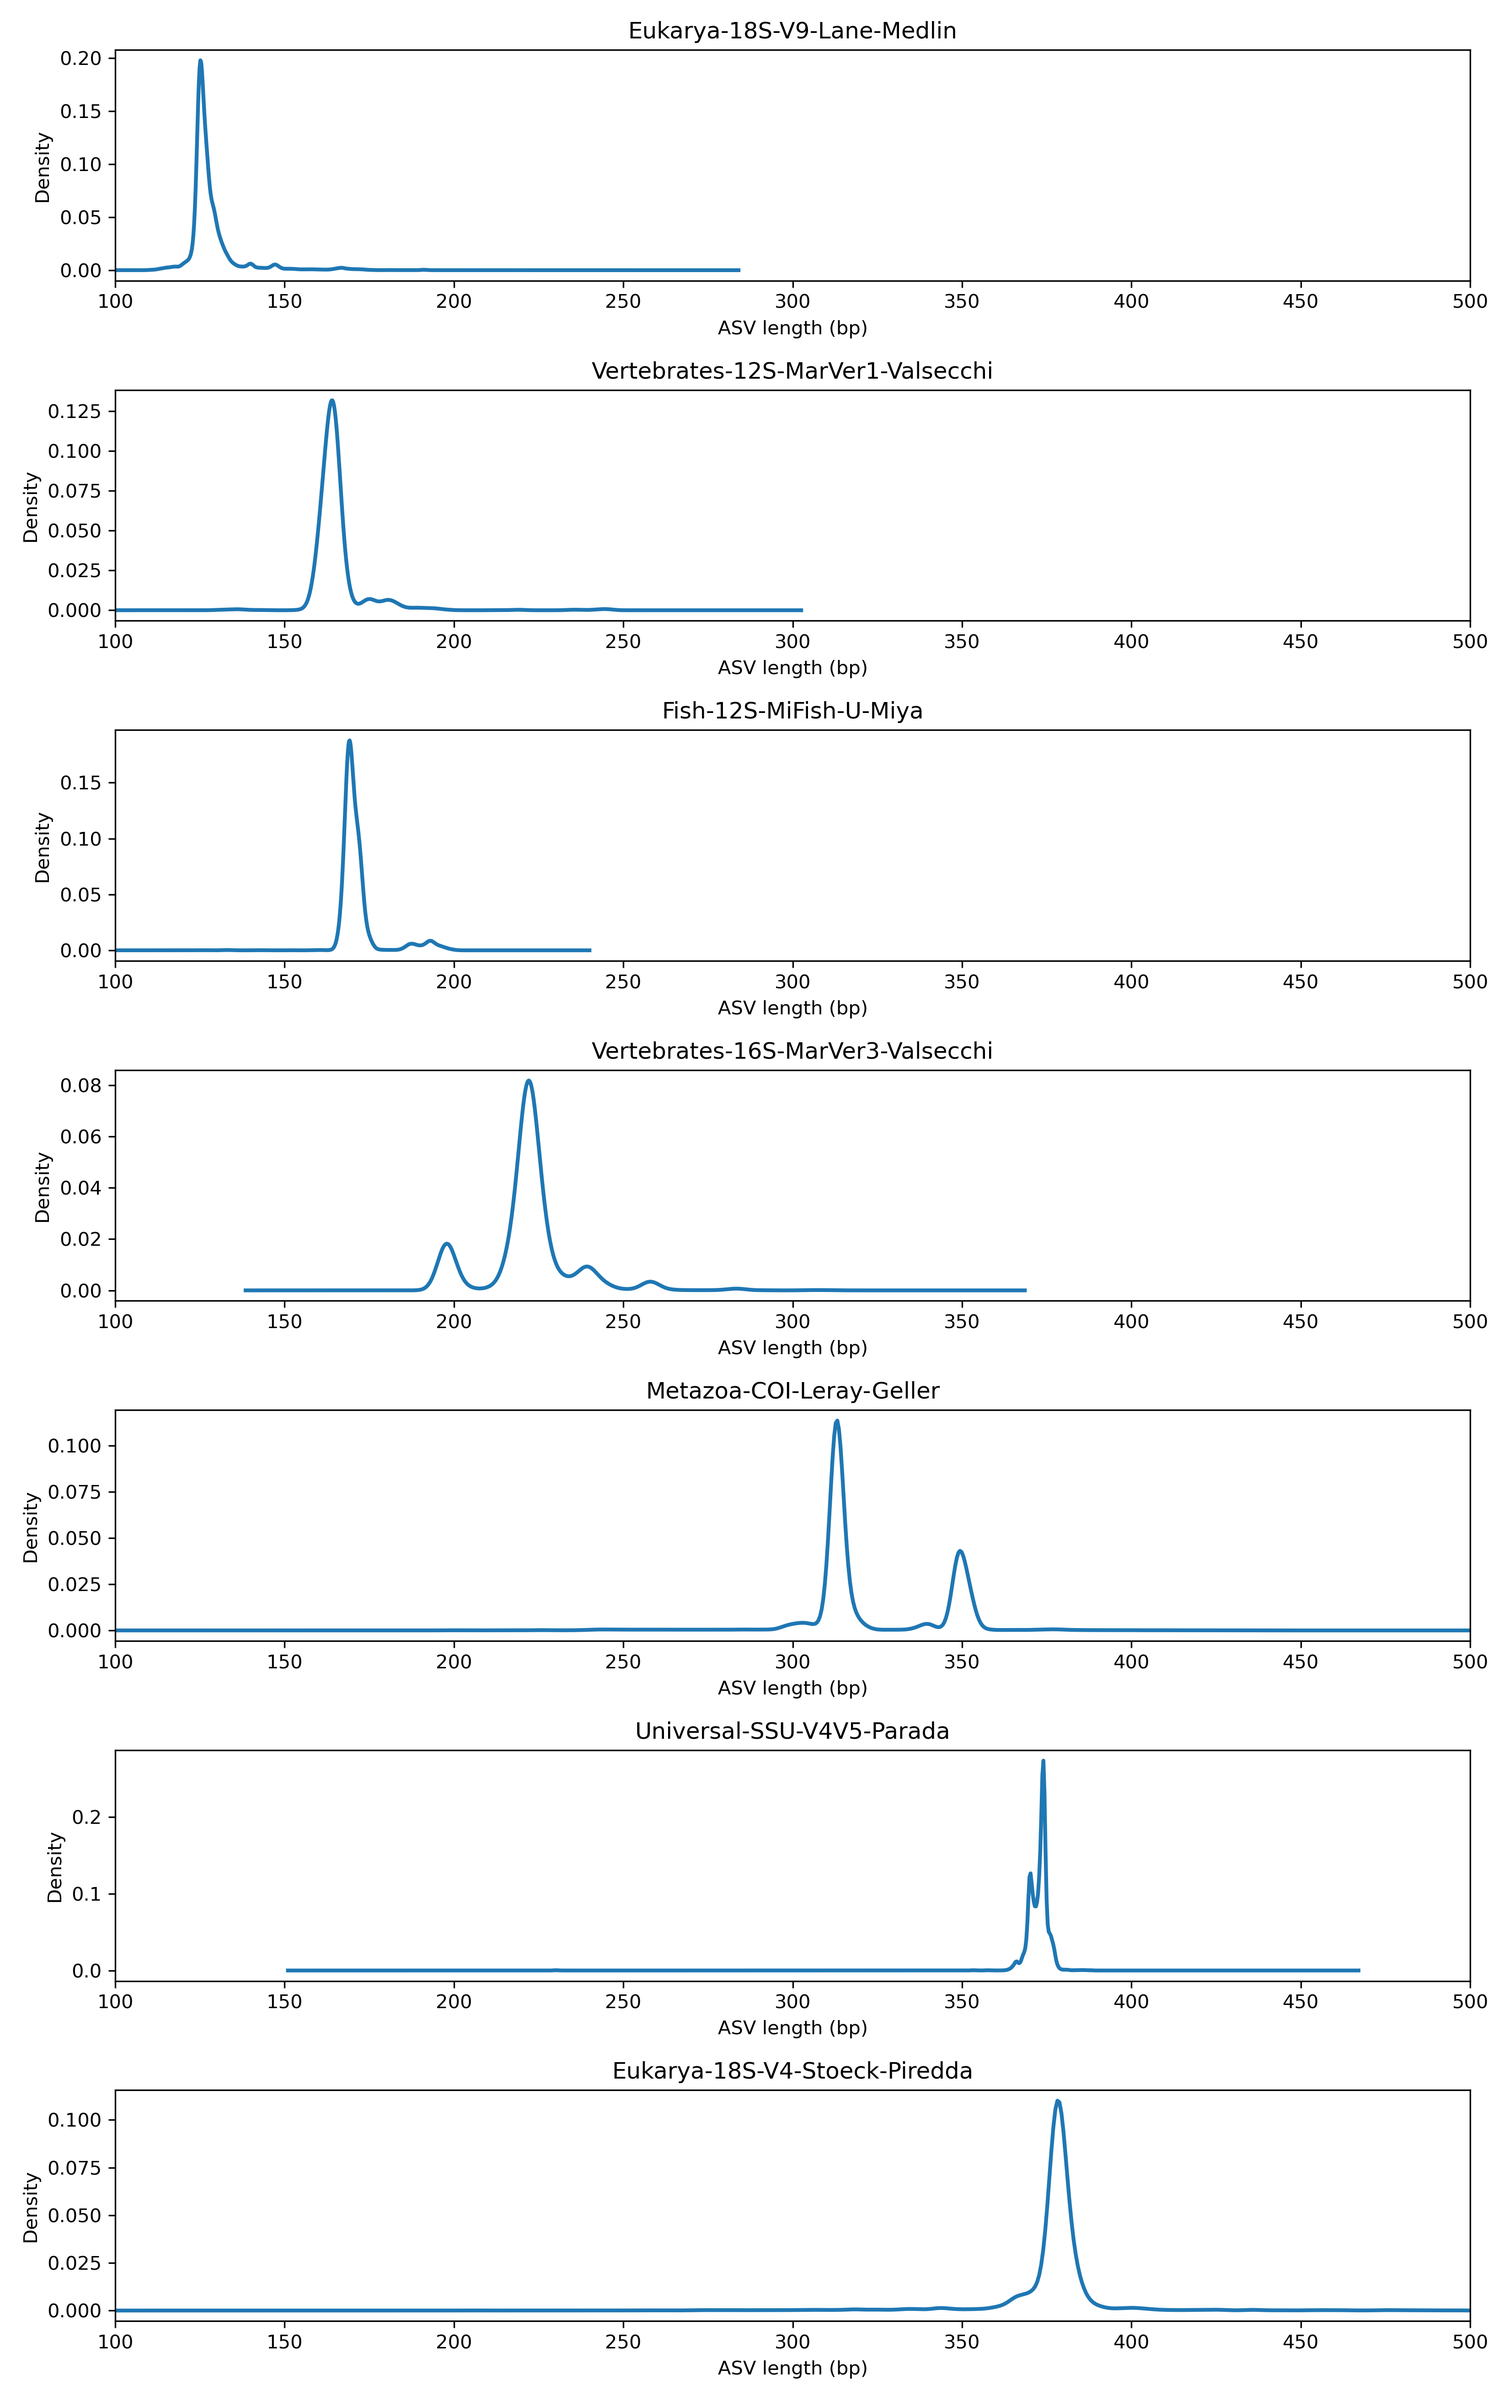
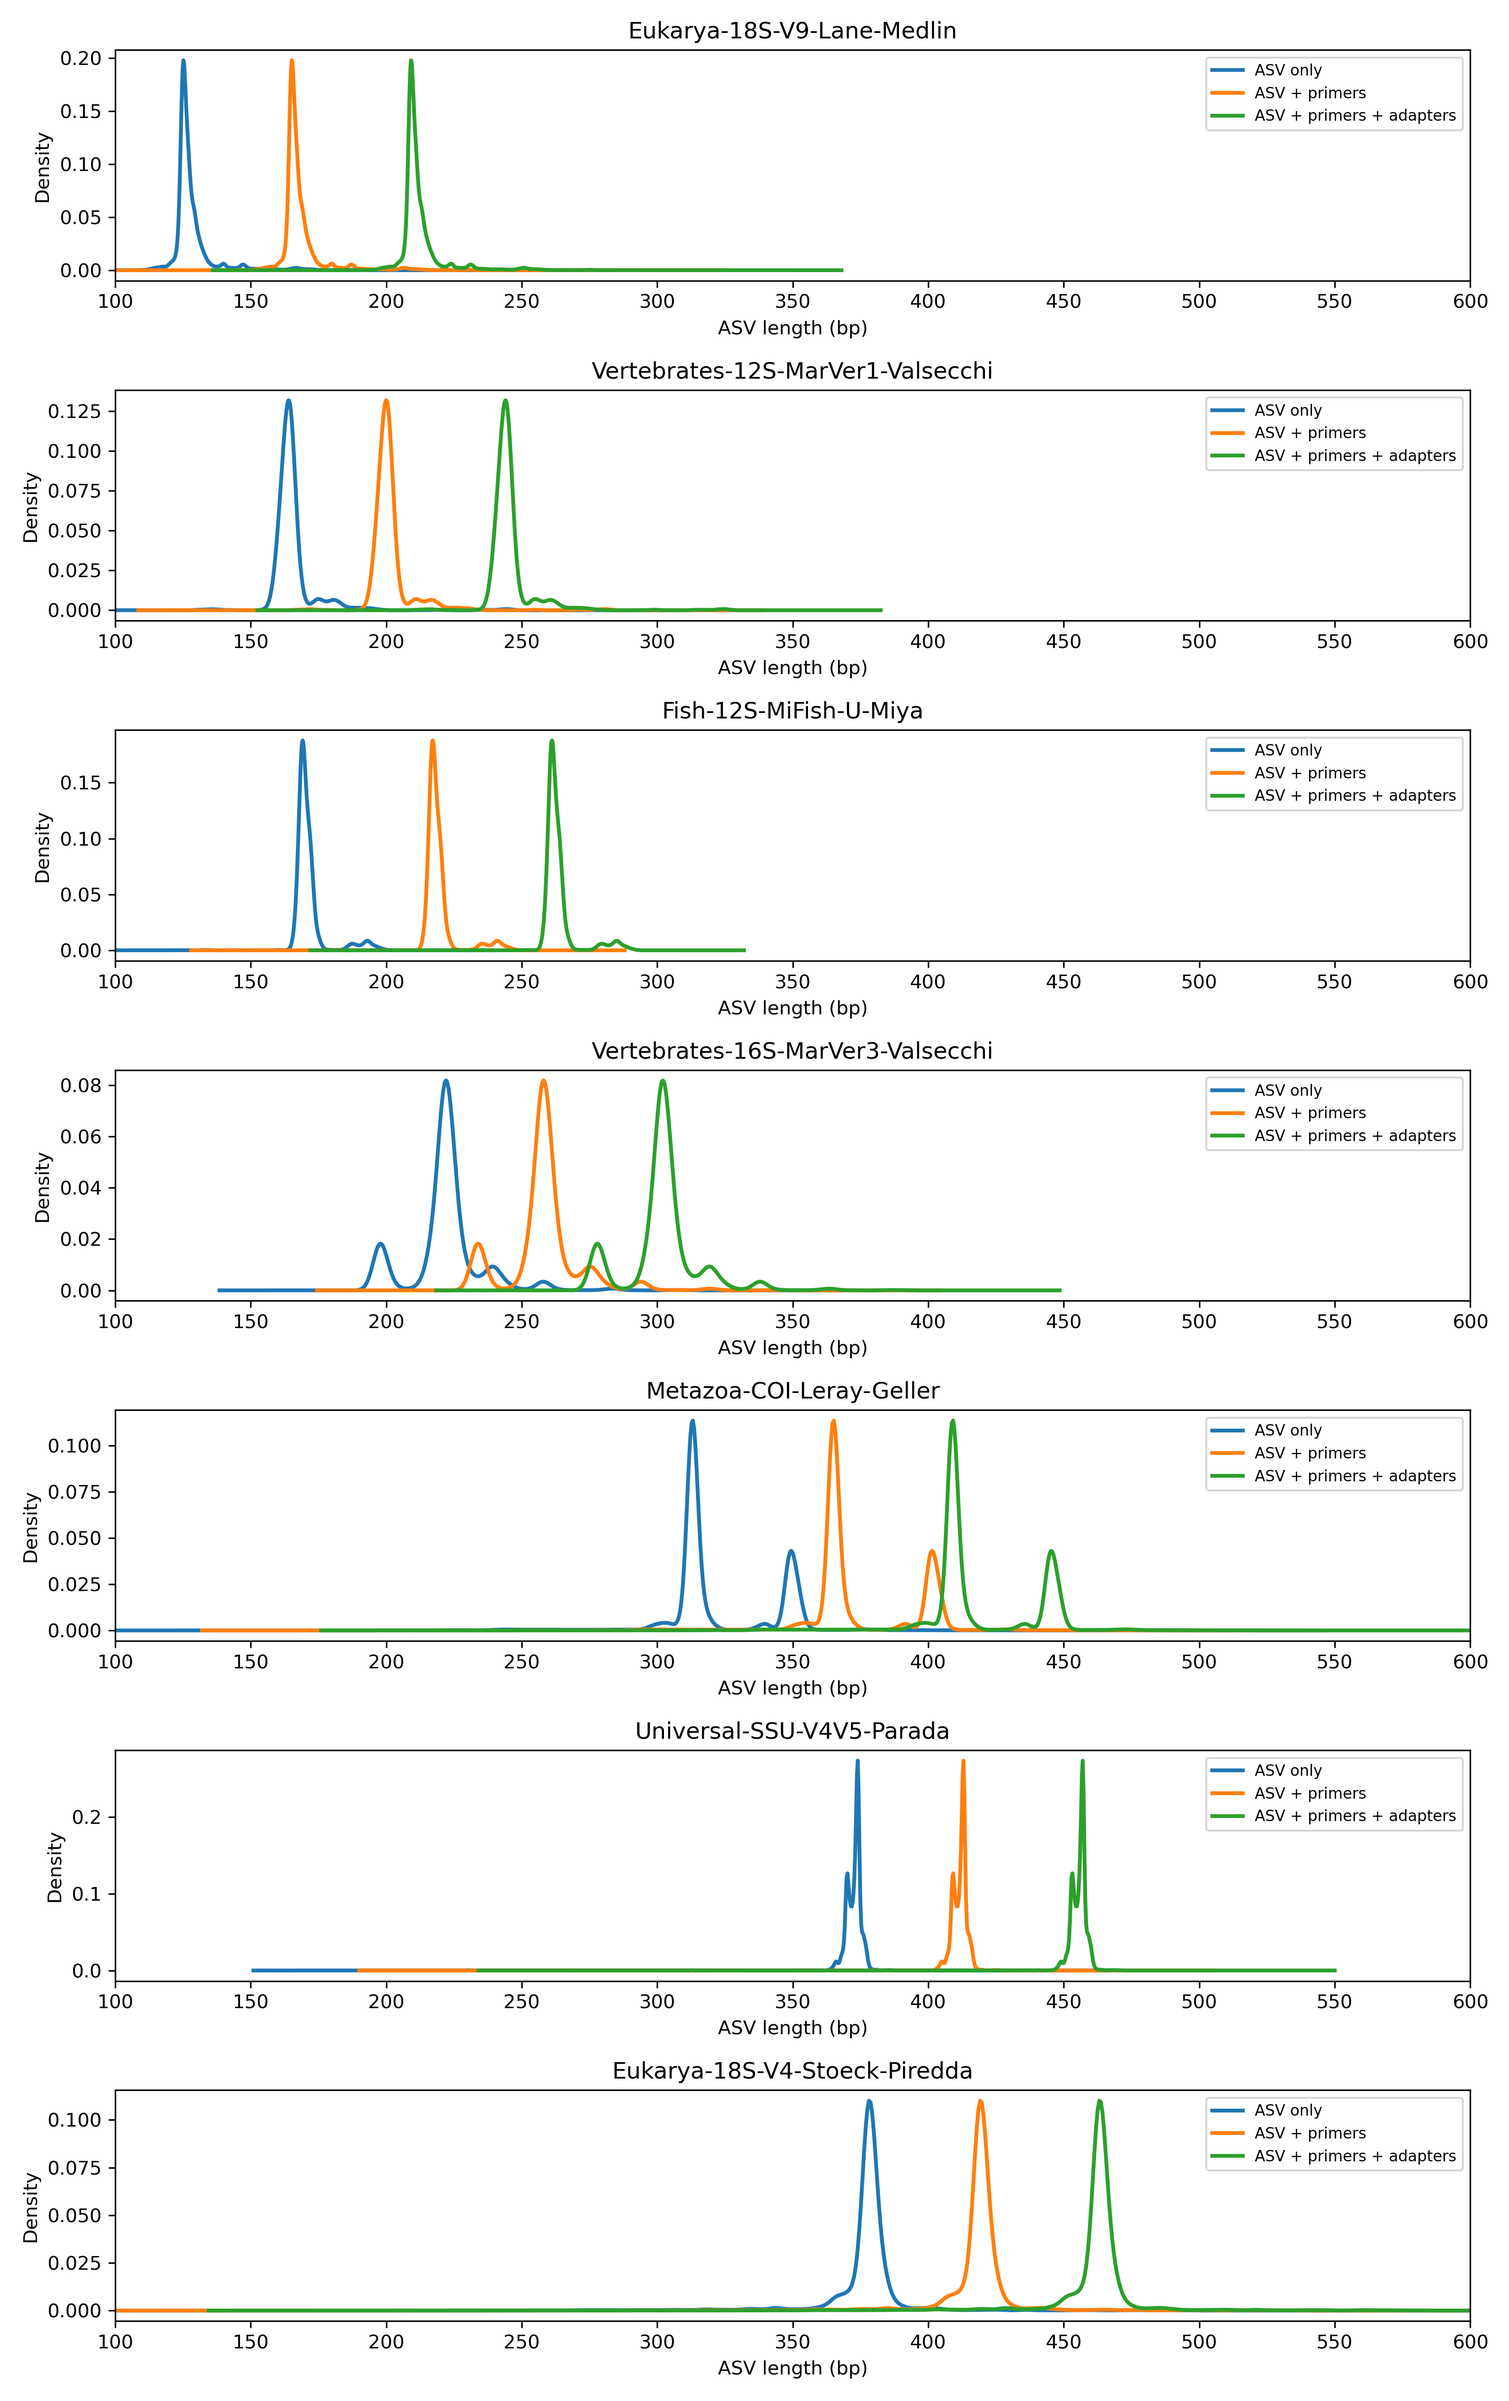
adding plots that include primers and adapters

diff --git a/amplicon-lengths/ampLenDist.py b/amplicon-lengths/ampLenDist.py
@@ -5,10 +5,16 @@ from __future__ import annotations
 import argparse
 import math
 from pathlib import Path
+import re
 
 import matplotlib.pyplot as plt
 from matplotlib.ticker import MultipleLocator
 import pandas as pd
+
+
+ADAPTER_FORWARD = "ACACTGACGACATGGTTCTACA"
+ADAPTER_REVERSE = "TACGGTAGCAGAGACTTGGTCT"
+ADAPTER_TOTAL_BP = len(ADAPTER_FORWARD) + len(ADAPTER_REVERSE)
 
 
 def discover_amplicon_folders(base_dir: Path) -> list[Path]:
@@ -44,7 +50,38 @@ def compute_stats(folder_name: str, lengths: pd.Series) -> pd.Series:
 	return desc
 
 
-def plot_kde_panels(folder_lengths: list[tuple[str, pd.Series]], output_png: Path) -> None:
+def primer_length_from_sequence(value: str) -> int | None:
+	"""Return primer length for simple IUPAC-like strings; None when missing/invalid."""
+	if pd.isna(value):
+		return None
+	sequence = re.sub(r"\s+", "", str(value).strip()).upper()
+	if not sequence or "MISSING" in sequence or not re.fullmatch(r"[A-Z]+", sequence):
+		return None
+	return len(sequence)
+
+
+def load_primer_offsets(assays_tsv: Path) -> dict[str, int]:
+	"""Map assay_name to forward+reverse primer length (bp)."""
+	assays_df = pd.read_csv(
+		assays_tsv,
+		sep="\t",
+		usecols=["assay_name", "pcr_primer_forward", "pcr_primer_reverse"],
+	)
+
+	offsets: dict[str, int] = {}
+	for row in assays_df.itertuples(index=False):
+		forward_len = primer_length_from_sequence(row.pcr_primer_forward)
+		reverse_len = primer_length_from_sequence(row.pcr_primer_reverse)
+		offsets[row.assay_name] = (forward_len or 0) + (reverse_len or 0)
+
+	return offsets
+
+
+def plot_kde_panels(
+	folder_lengths: list[tuple[str, pd.Series]],
+	output_png: Path,
+	primer_offsets: dict[str, int],
+) -> None:
 	"""Plot one KDE panel per folder in a single-column layout."""
 	panel_count = len(folder_lengths)
 	fig, axes = plt.subplots(panel_count, 1, figsize=(11, max(2.5 * panel_count, 4)), sharex=False)
@@ -52,7 +89,13 @@ def plot_kde_panels(folder_lengths: list[tuple[str, pd.Series]], output_png: Pat
 	if panel_count == 1:
 		axes = [axes]
 
-	all_lengths = pd.concat([lengths for _, lengths in folder_lengths], ignore_index=True)
+	all_lengths_parts: list[pd.Series] = []
+	for folder_name, lengths in folder_lengths:
+		primer_bp = primer_offsets.get(folder_name, 0)
+		all_lengths_parts.append(lengths)
+		all_lengths_parts.append(lengths + primer_bp)
+		all_lengths_parts.append(lengths + primer_bp + ADAPTER_TOTAL_BP)
+	all_lengths = pd.concat(all_lengths_parts, ignore_index=True)
 	x_min = float(all_lengths.min())
 	x_max = float(all_lengths.max())
 	x_lower = 50 * math.floor(x_min / 50)
@@ -63,24 +106,26 @@ def plot_kde_panels(folder_lengths: list[tuple[str, pd.Series]], output_png: Pat
 	shared_xlim = (x_lower, x_upper)
 
 	for ax, (folder_name, lengths) in zip(axes, folder_lengths):
-		if lengths.nunique() > 1:
-			lengths.plot.kde(ax=ax, linewidth=2)
-		else:
-			# KDE is undefined for a constant vector.
-			ax.axvline(lengths.iloc[0], linewidth=2)
-			ax.text(
-				0.02,
-				0.95,
-				"constant value: KDE unavailable",
-				transform=ax.transAxes,
-				va="top",
-			)
+		primer_bp = primer_offsets.get(folder_name, 0)
+		distributions = [
+			("ASV only", lengths),
+			("ASV + primers", lengths + primer_bp),
+			("ASV + primers + adapters", lengths + primer_bp + ADAPTER_TOTAL_BP),
+		]
+
+		for label, series in distributions:
+			if series.nunique() > 1:
+				series.plot.kde(ax=ax, linewidth=2, label=label)
+			else:
+				# KDE is undefined for a constant vector.
+				ax.axvline(series.iloc[0], linewidth=2, label=f"{label} (constant)")
 
 		ax.set_title(folder_name)
 		ax.set_xlabel("ASV length (bp)")
 		ax.set_ylabel("Density")
 		ax.set_xlim(shared_xlim)
 		ax.xaxis.set_major_locator(MultipleLocator(50))
+		ax.legend(loc="upper right", fontsize=8)
 
 	fig.tight_layout()
 	fig.savefig(output_png, dpi=300)
@@ -112,6 +157,12 @@ def main() -> None:
 		default=Path(__file__).resolve().parent / "kde_plots.png",
 		help="Output PNG file for stacked KDE panels.",
 	)
+	parser.add_argument(
+		"--assays-tsv",
+		type=Path,
+		default=Path(__file__).resolve().parent.parent / "assays.tsv",
+		help="Assay metadata TSV containing primer sequences.",
+	)
 	args = parser.parse_args()
 
 	base_dir = args.base_dir.resolve()
@@ -135,6 +186,7 @@ def main() -> None:
 
 	folder_lengths.sort(key=lambda item: item[1].median())
 	rows.sort(key=lambda row: row["median"])
+	primer_offsets = load_primer_offsets(args.assays_tsv)
 
 	stats_df = pd.DataFrame(rows)
 	first_col = stats_df.pop("folder")
@@ -143,7 +195,7 @@ def main() -> None:
 	stats_df.insert(stats_df.columns.get_loc("50%") + 1, "median", median_col)
 	stats_df.to_csv(args.stats_out, sep="\t", index=False)
 
-	plot_kde_panels(folder_lengths, args.plot_out)
+	plot_kde_panels(folder_lengths, args.plot_out, primer_offsets)
 
 	print(f"Wrote stats table: {args.stats_out}")
 	print(f"Wrote KDE panels : {args.plot_out}")
